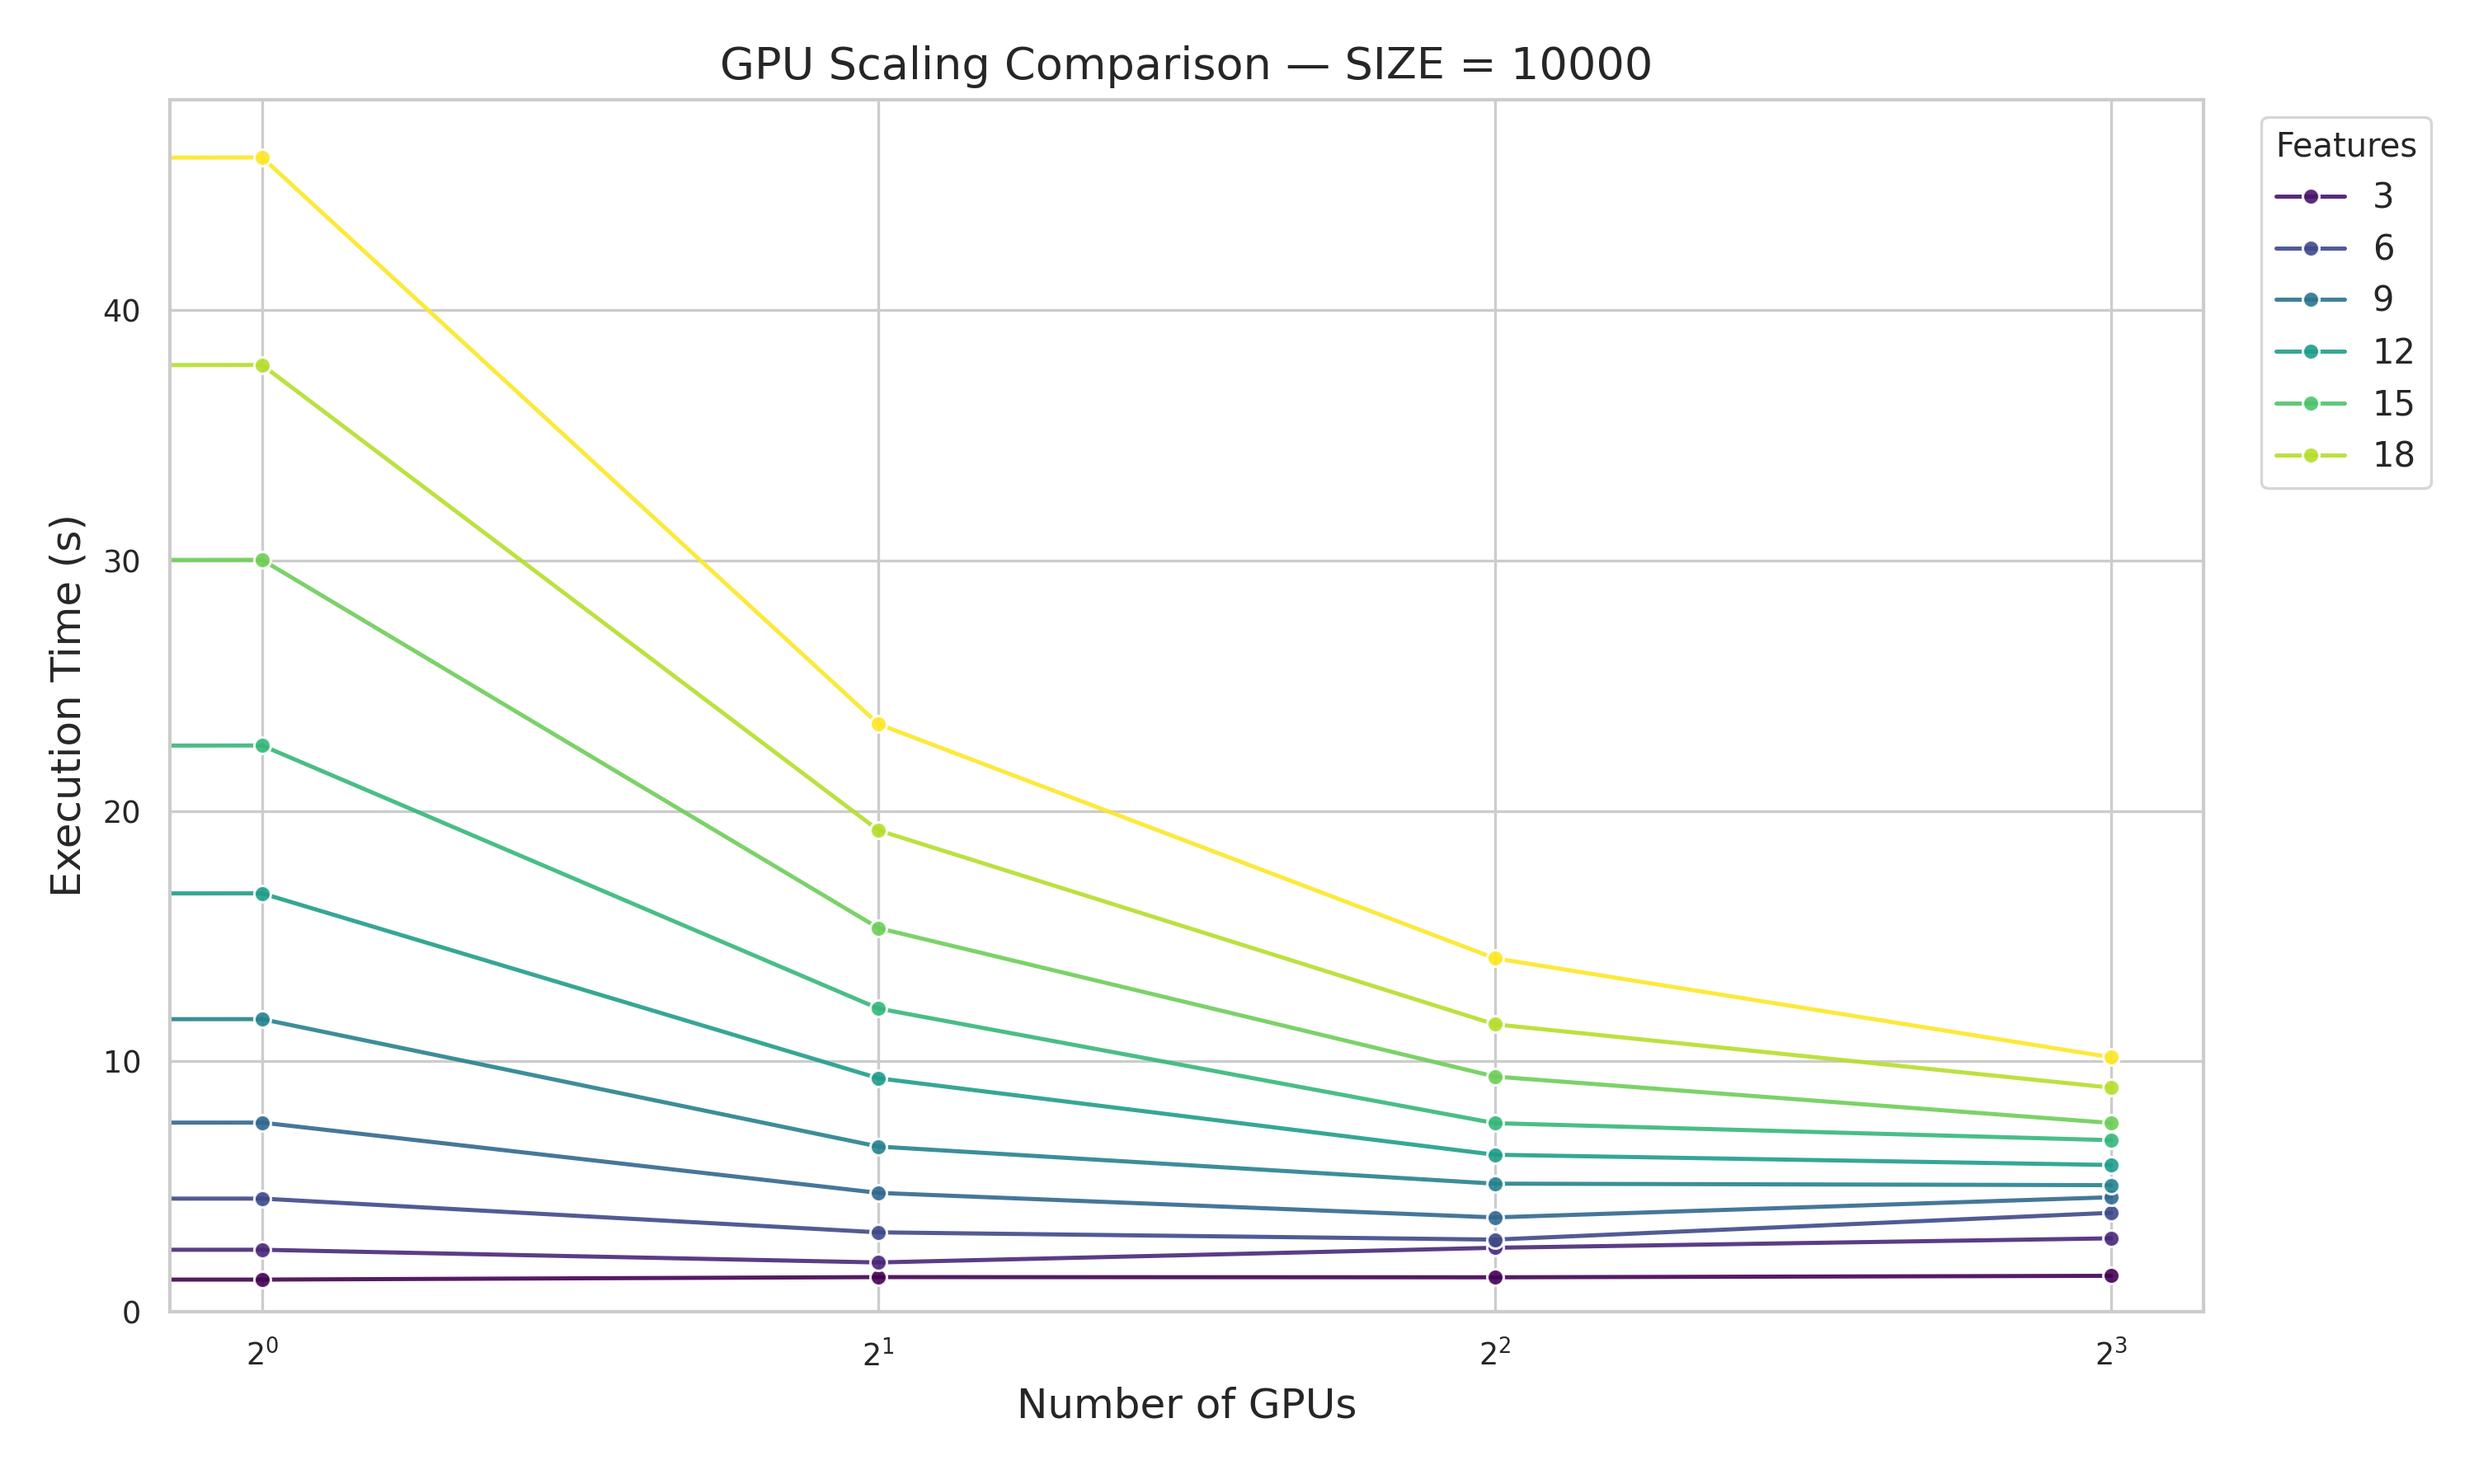
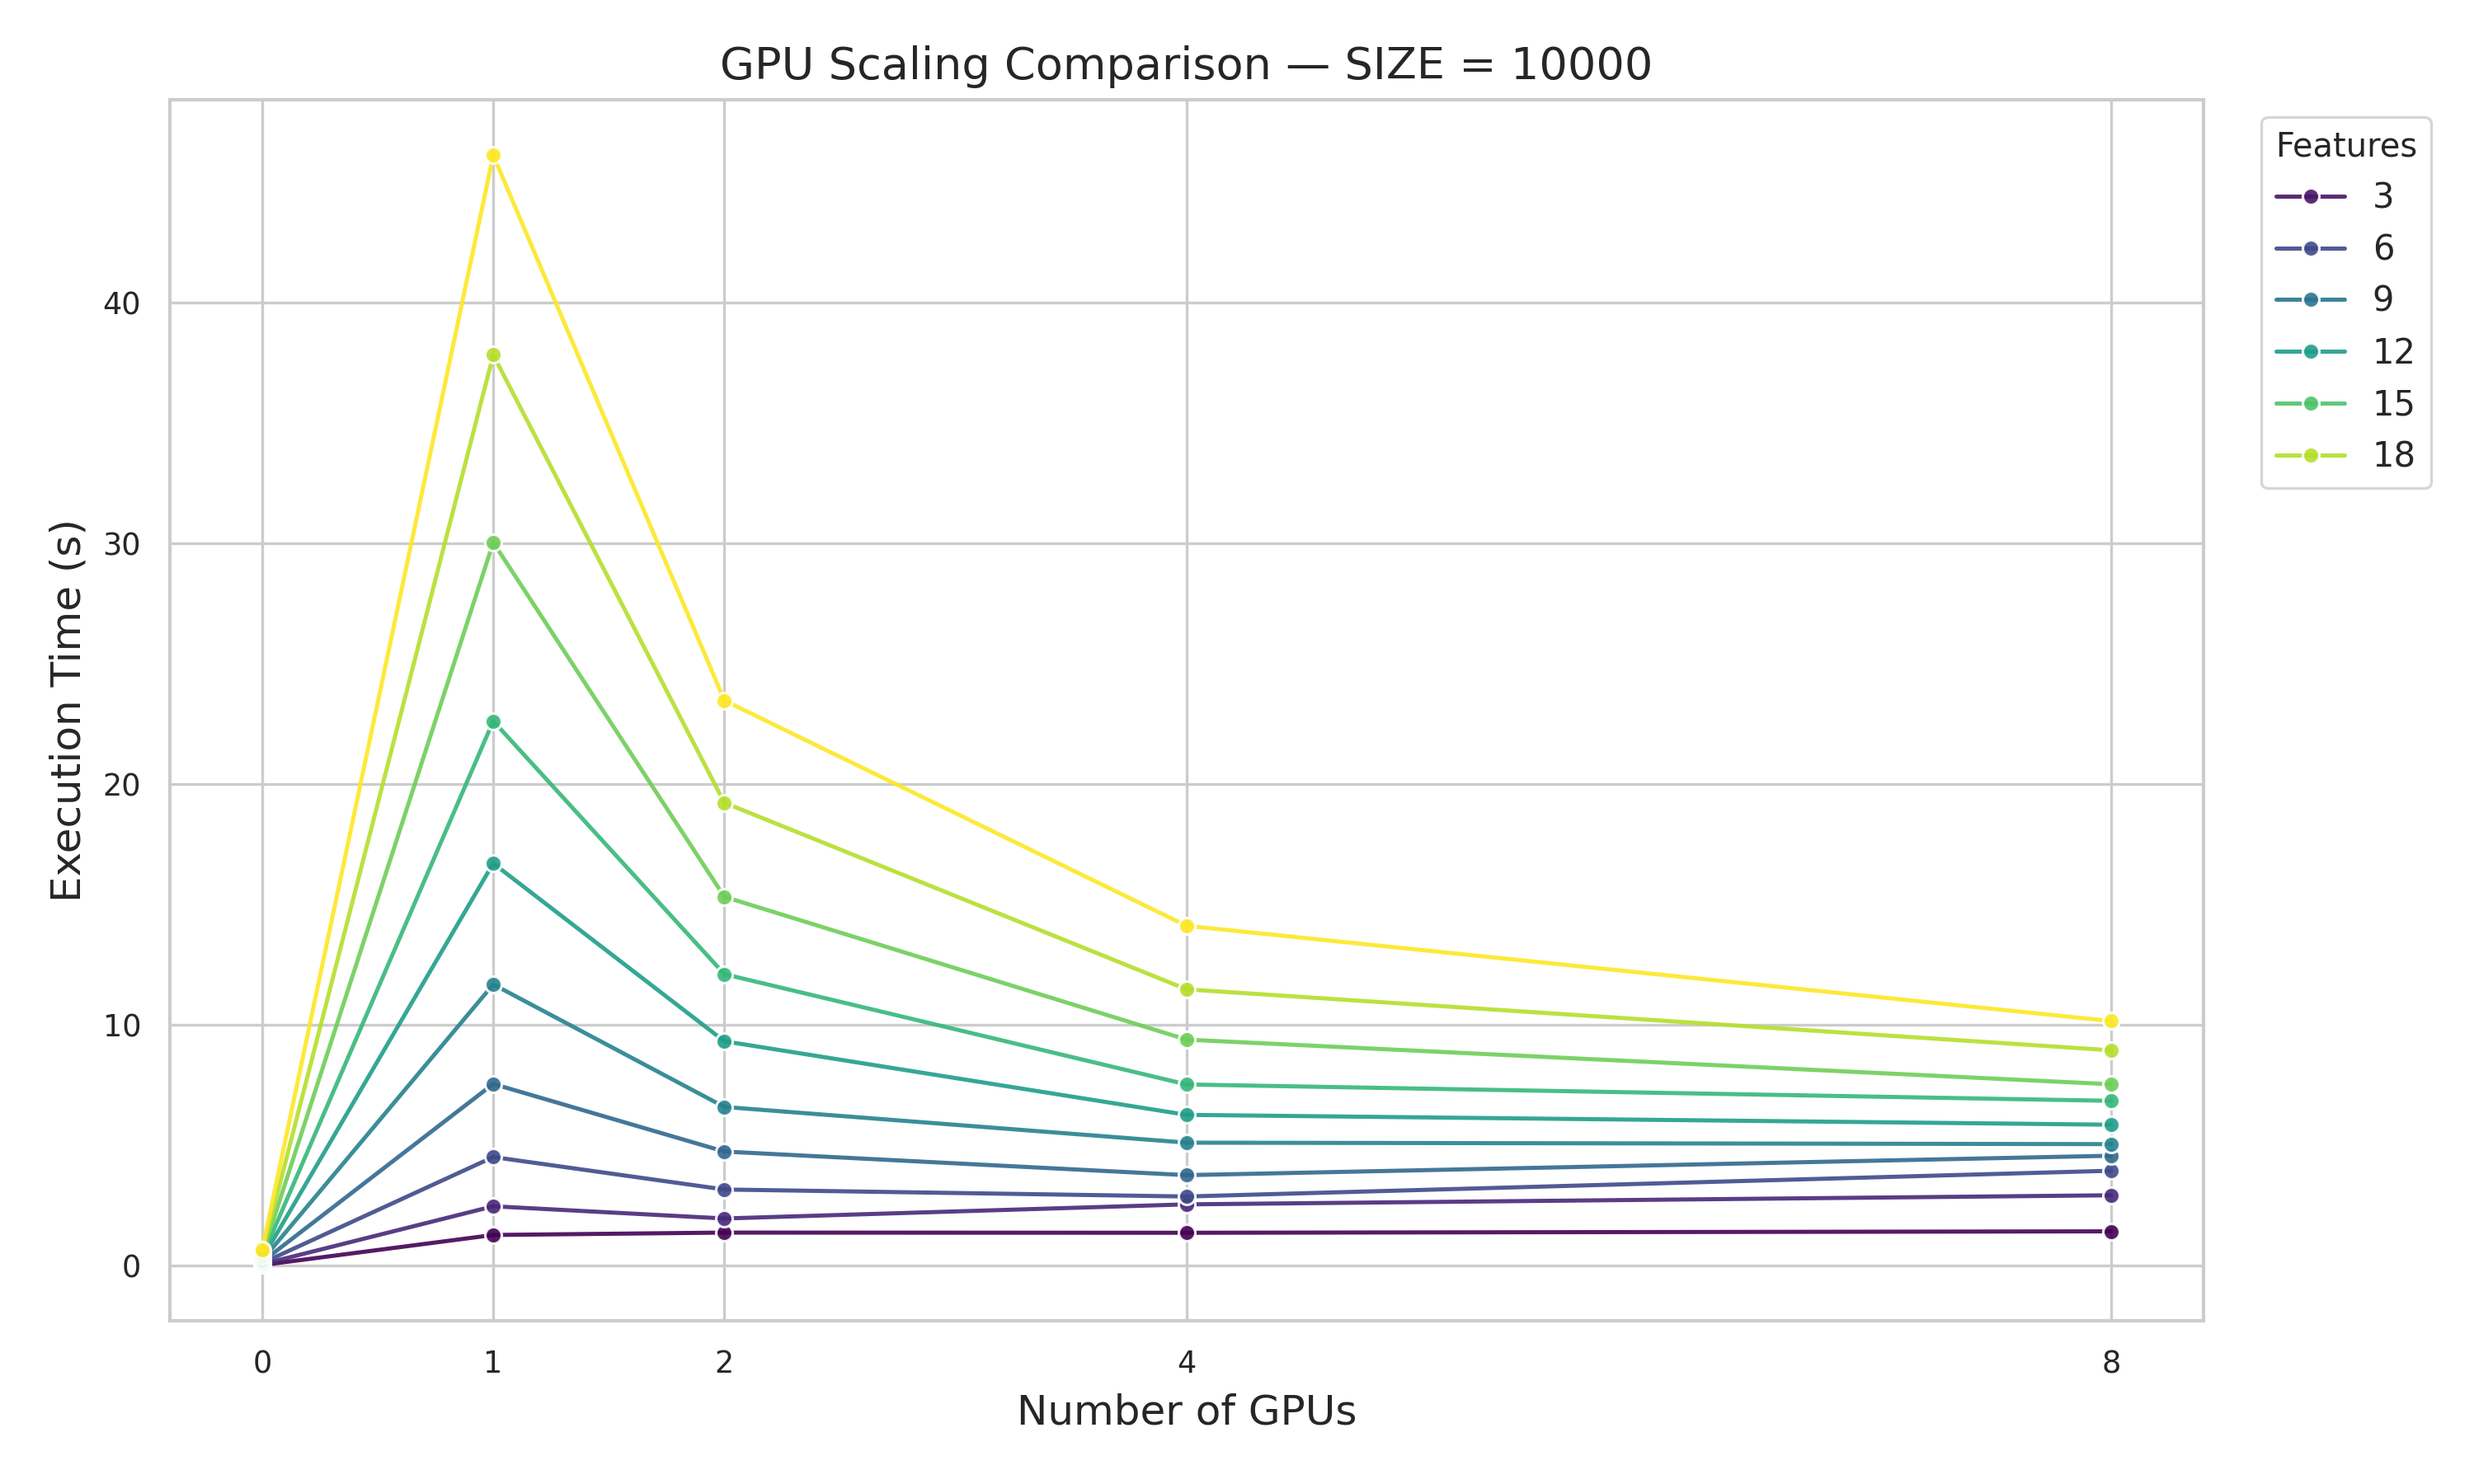
update

diff --git a/logs/graph.py b/logs/graph.py
@@ -91,11 +91,11 @@ for size in sorted(df['SIZE'].unique()):
 
     ax.set_ylabel('Execution Time (s)')
 
-    ax.set_xticks([1, 2, 4, 8])
+    ax.set_xticks([0, 1, 2, 4, 8])
 
-    ax.set_ylim(bottom=0)
+   # ax.set_ylim(bottom=0)
 
-    ax.set_xscale('log', base=2)
+    # ax.set_xscale('log', base=2)
 
     ax.legend(title='Features', bbox_to_anchor=(1.02, 1), loc='upper left')
 
